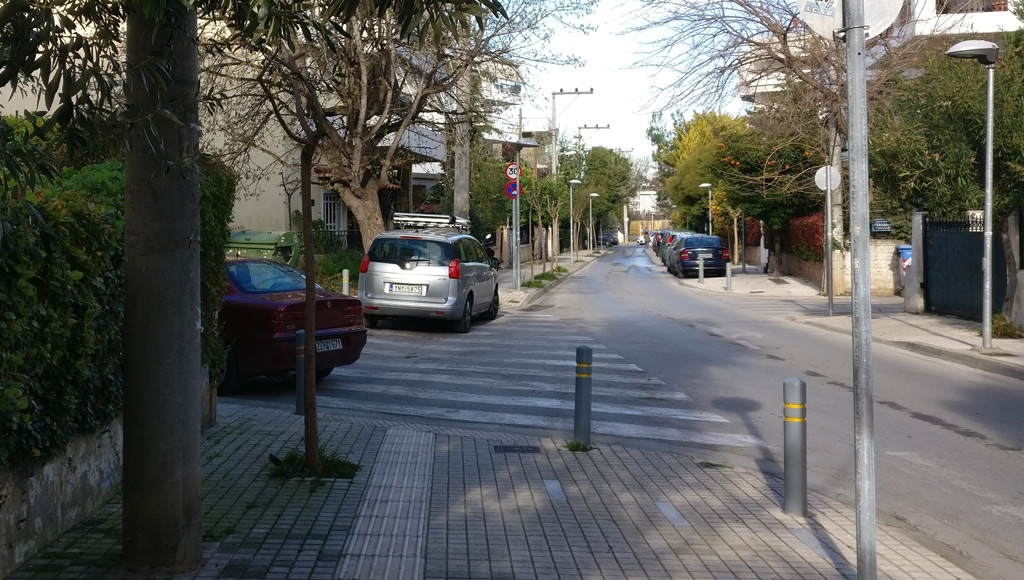
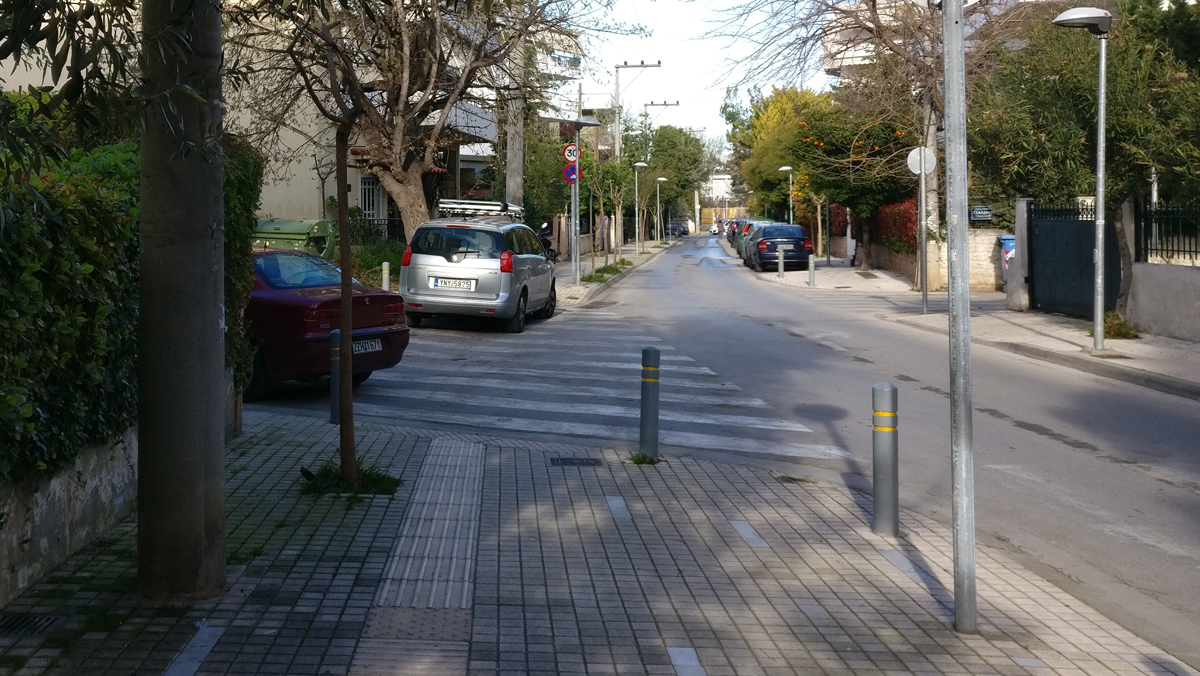
Higher quality photos. Wider layour.

diff --git a/src/components/image.js b/src/components/image.js
@@ -19,7 +19,7 @@ const Image = () => (
       query {
         placeholderImage: file(relativePath: { eq: "IMG_20190319_174455.jpg" }) {
           childImageSharp {
-            fluid(maxWidth: 1024) {
+            fluid(maxWidth: 1200) {
               ...GatsbyImageSharpFluid
             }
           }

diff --git a/src/components/layout-site.css b/src/components/layout-site.css
@@ -5,7 +5,7 @@ a {
 
 div.wrap {
   margin: 0 auto;
-  max-width: 960px;
+  max-width: 1024px;
   padding: 0 1.0875rem 1.45rem;
 }
 
@@ -24,7 +24,7 @@ main {
 }
 .Header > div {
   margin: 0 auto;
-  max-width: 960px;
+  max-width: 1024px;
   padding: 1.45rem 1.0875rem;
 }
 .Header > div > h1 {

diff --git a/src/data.js b/src/data.js
@@ -36,7 +36,7 @@ export const cars = [
 const imagesQuery = graphql`
   fragment servicesImage on File {
     childImageSharp {
-      fluid(maxWidth: 1024) {
+      fluid(maxWidth: 1024, quality: 80) {
         ...GatsbyImageSharpFluid
       }
     }
